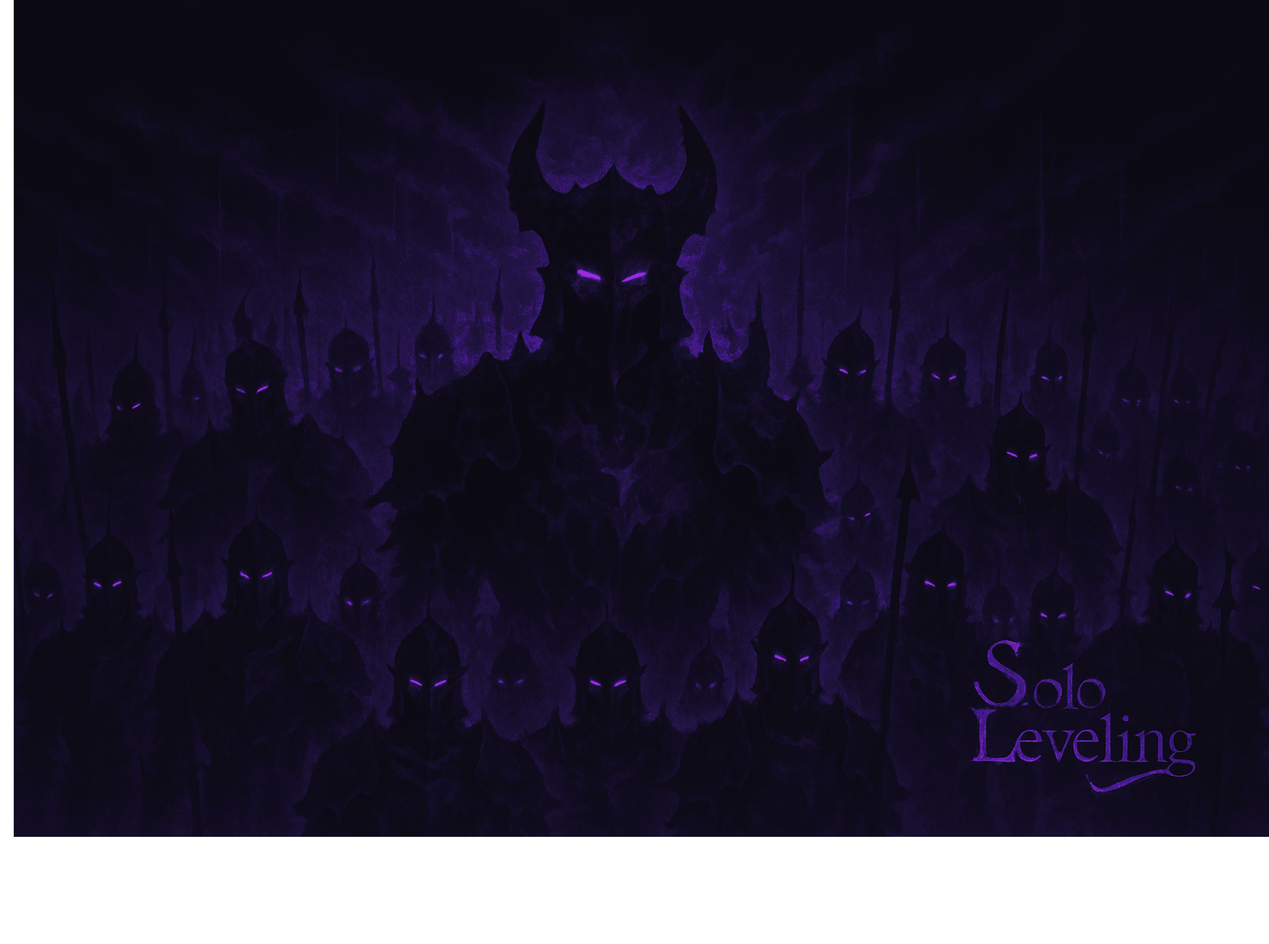
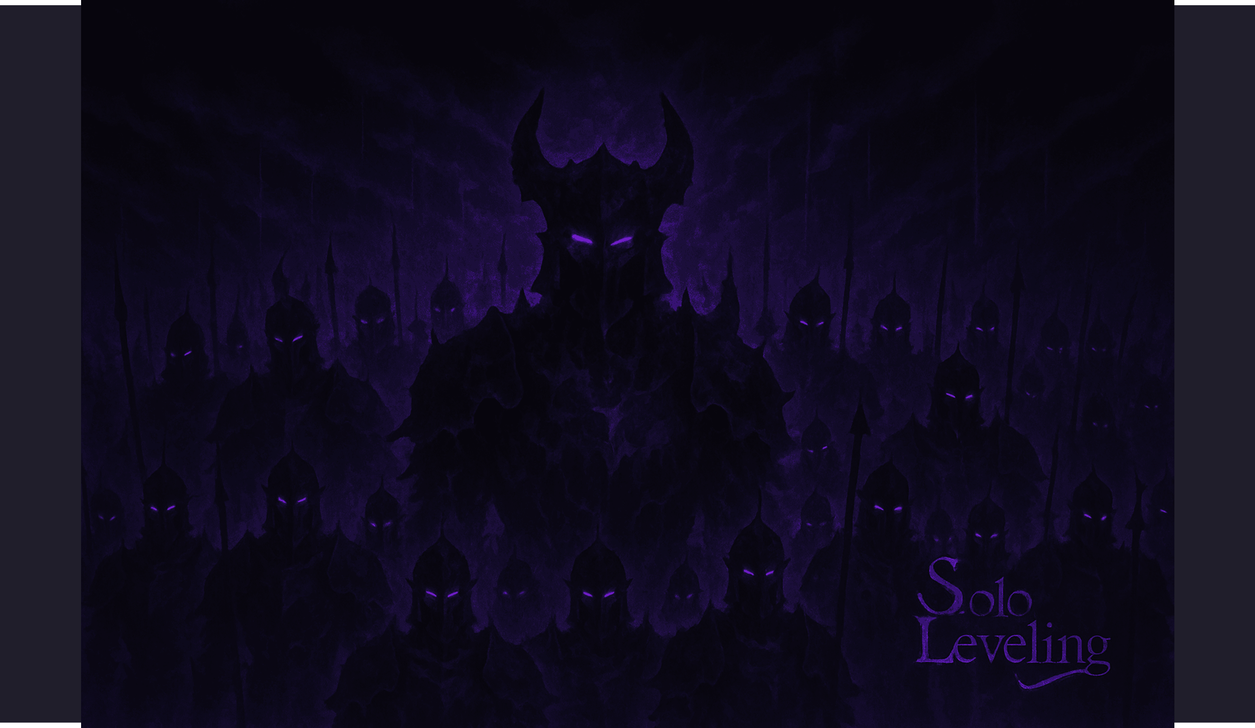
.

diff --git a/A08/banner.html b/A08/banner.html
@@ -13,7 +13,7 @@
 </head>
 
 <body>
-	<section style=" background-color: rgba(27, 4, 53, 0.842);">
+	<section style=" background-color: rgba(16, 2, 32, 0.842);">
 		<div class="keyart" id="parallax">
 			<div class="keyart_layer parallax" id="keyart-0" data-speed="2"></div>
 			<div class="keyart_layer parallax" id="keyart-1" data-speed="5"></div>
